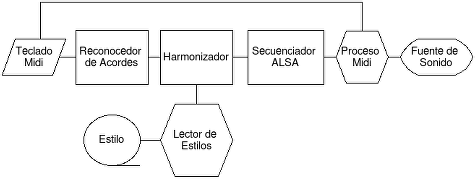
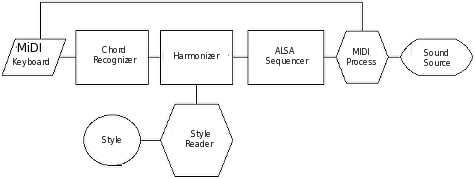
update

diff --git a/doc/html/stygmorgan.html b/doc/html/stygmorgan.html
@@ -5,43 +5,40 @@
 	<title>stygmorgan Help</title>
 	<meta name="generator" content="LibreOfficeDev 6.4.0.0.beta1 (Linux)"/>
 	<meta name="created" content="2006-08-01T00:00:00.014142700"/>
-	<meta name="changed" content="2019-11-21T10:16:29.004518096"/>
+	<meta name="changed" content="2019-11-21T11:45:48.122111672"/>
 	<style type="text/css">
-		@page { size: 3.5cm 2.5cm; margin-left: 2cm; margin-right: 1cm; margin-top: 1cm; margin-bottom: 1cm }
-		p { margin-bottom: 0.25cm; background: transparent; color: #000000; line-height: 115%; background: transparent }
-		h1 { margin-bottom: 0.21cm; background: transparent; color: #000000; background: transparent; page-break-after: avoid }
-		h1.western { font-family: "Liberation Serif", serif; font-size: 24pt; font-weight: bold }
-		h1.cjk { font-family: "Noto Serif CJK SC"; font-size: 24pt; font-weight: bold }
-		h1.ctl { font-family: "FreeSans"; font-size: 24pt; font-weight: bold }
-		h4 { margin-top: 0.21cm; margin-bottom: 0.21cm; background: transparent; color: #000000; background: transparent; page-break-after: avoid }
-		h4.western { font-family: "Liberation Serif", serif; font-size: 12pt; font-weight: bold }
-		h4.cjk { font-family: "Noto Serif CJK SC"; font-size: 12pt; font-weight: bold }
-		h4.ctl { font-family: "FreeSans"; font-size: 12pt; font-weight: bold }
-		h3 { margin-top: 0.25cm; margin-bottom: 0.21cm; background: transparent; color: #000000; background: transparent; page-break-after: avoid }
-		h3.western { font-family: "Liberation Serif", serif; font-size: 14pt; font-weight: bold }
-		h3.cjk { font-family: "Noto Serif CJK SC"; font-size: 14pt; font-weight: bold }
-		h3.ctl { font-family: "FreeSans"; font-size: 14pt; font-weight: bold }
-		h2 { margin-top: 0.35cm; margin-bottom: 0.21cm; background: transparent; color: #000000; background: transparent; page-break-after: avoid }
-		h2.western { font-family: "Liberation Serif", serif; font-size: 18pt; font-weight: bold }
-		h2.cjk { font-family: "Noto Serif CJK SC"; font-size: 18pt; font-weight: bold }
-		h2.ctl { font-family: "FreeSans"; font-size: 18pt; font-weight: bold }
-		h5 { margin-top: 0.21cm; margin-bottom: 0.11cm; background: transparent; color: #000000; background: transparent; page-break-after: avoid }
-		h5.western { font-family: "Liberation Serif", serif; font-size: 10pt; font-weight: bold }
-		h5.cjk { font-family: "Noto Serif CJK SC"; font-size: 10pt; font-weight: bold }
-		h5.ctl { font-family: "FreeSans"; font-size: 10pt; font-weight: bold }
+		@page { size: 3.5cm 2.5cm }
+		h1 { margin-bottom: 0.21cm; background: transparent; color: #000000 }
+		h1.western { font-family: "Liberation Serif", serif }
+		h1.cjk { font-family: "Noto Serif CJK SC"; font-size: 24pt }
+		h1.ctl { font-family: "FreeSans"; font-size: 24pt }
+		p { margin-bottom: 0.25cm; background: transparent; color: #000000; line-height: 115% }
+		h4 { margin-top: 0.21cm; margin-bottom: 0.21cm; background: transparent; color: #000000 }
+		h4.western { font-family: "Liberation Serif", serif }
+		h4.cjk { font-family: "Noto Serif CJK SC" }
+		h4.ctl { font-family: "FreeSans" }
+		h3 { margin-top: 0.25cm; margin-bottom: 0.21cm; background: transparent; color: #000000 }
+		h3.western { font-family: "Liberation Serif", serif }
+		h3.cjk { font-family: "Noto Serif CJK SC" }
+		h3.ctl { font-family: "FreeSans" }
+		h2 { margin-top: 0.35cm; margin-bottom: 0.21cm; background: transparent; color: #000000 }
+		h2.western { font-family: "Liberation Serif", serif }
+		h2.cjk { font-family: "Noto Serif CJK SC" }
+		h2.ctl { font-family: "FreeSans" }
+		h5 { margin-top: 0.21cm; margin-bottom: 0.11cm; background: transparent; color: #000000 }
+		h5.western { font-family: "Liberation Serif", serif }
+		h5.cjk { font-family: "Noto Serif CJK SC" }
+		h5.ctl { font-family: "FreeSans" }
+		a:link { so-language: zxx }
 		samp.western { font-family: "Liberation Mono", monospace }
 		samp.cjk { font-family: "Noto Sans Mono CJK SC", monospace }
 		samp.ctl { font-family: "Liberation Mono", monospace }
 		code.western { font-family: "Liberation Mono", monospace }
 		code.cjk { font-family: "Noto Sans Mono CJK SC", monospace }
 		code.ctl { font-family: "Liberation Mono", monospace }
-		em { font-style: italic }
-		strong { font-weight: bold }
-		a:link { color: #000080; so-language: zxx; text-decoration: underline }
-		a:visited { color: #800000; so-language: zxx; text-decoration: underline }
 	</style>
 </head>
[2 lines of base64/hex data omitted]
 <img src="stygmicon128.png" name="Image1" align="bottom" width="128" height="128" border="0"/>
 
 <font size="7" style="font-size: 32pt">stygmorgan </font><font size="2" style="font-size: 10pt">&lt;C&gt;
@@ -277,9 +274,8 @@ functions than this program can do.</p>
 </ul>
 <p>Actually stygmorgan support ALSA and JACK MIDI, and can be used at
 the same time.</p>
-<p><br/>
-<br/>
-
+<p>The following diagram show more or less how stygmorgan works.</p>
+<p><img src="stygmorgandia.png" name="Image2" align="bottom" width="633" height="239" border="0"/>
 </p>
 <h2 class="western"><a name="Requisitos_Texto"></a>Requeriments</h2>
 <p><br/>
